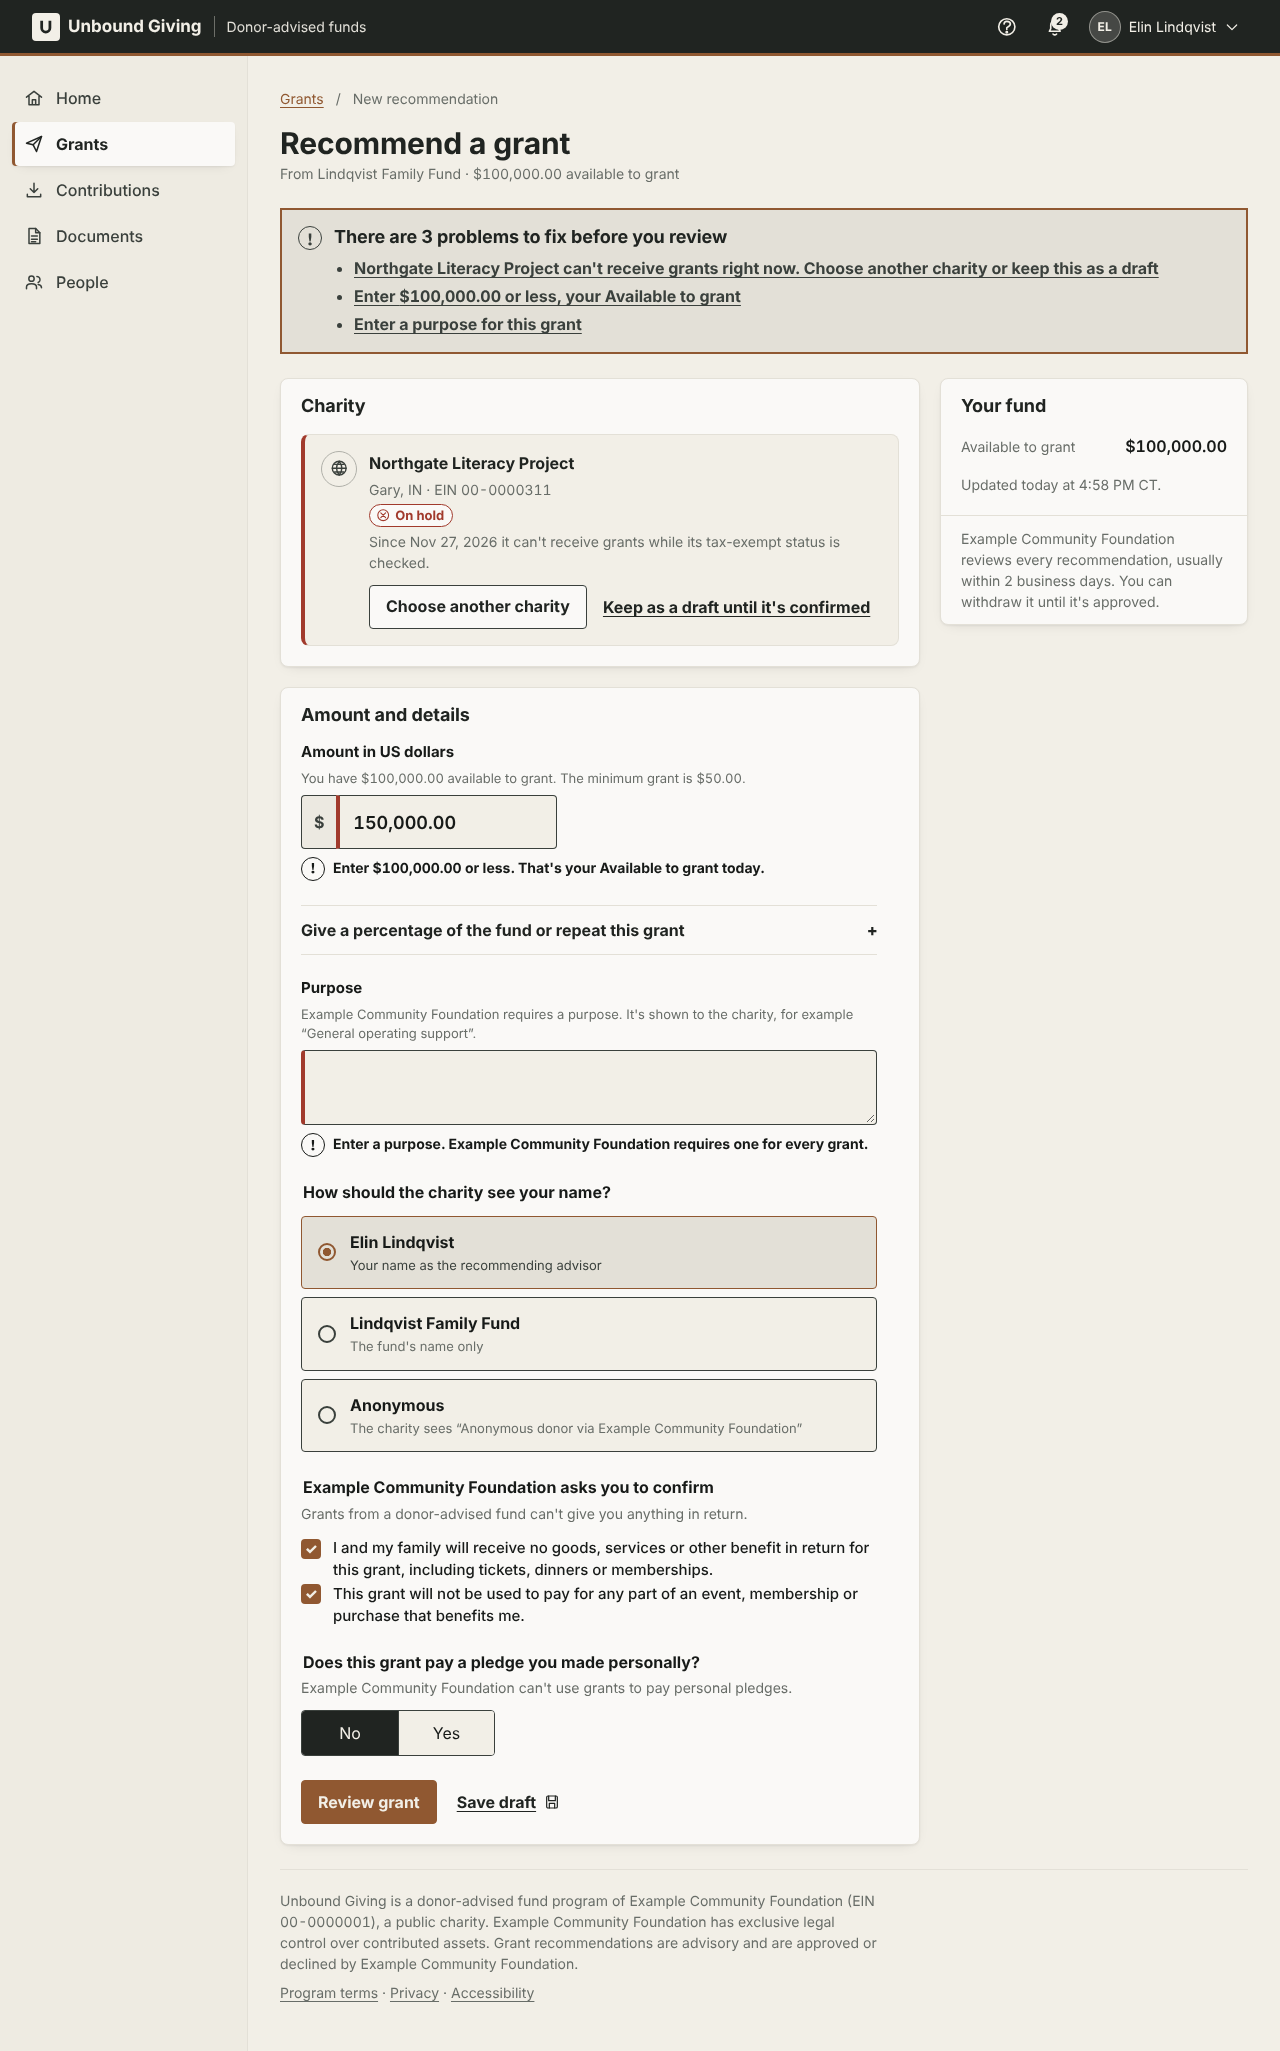
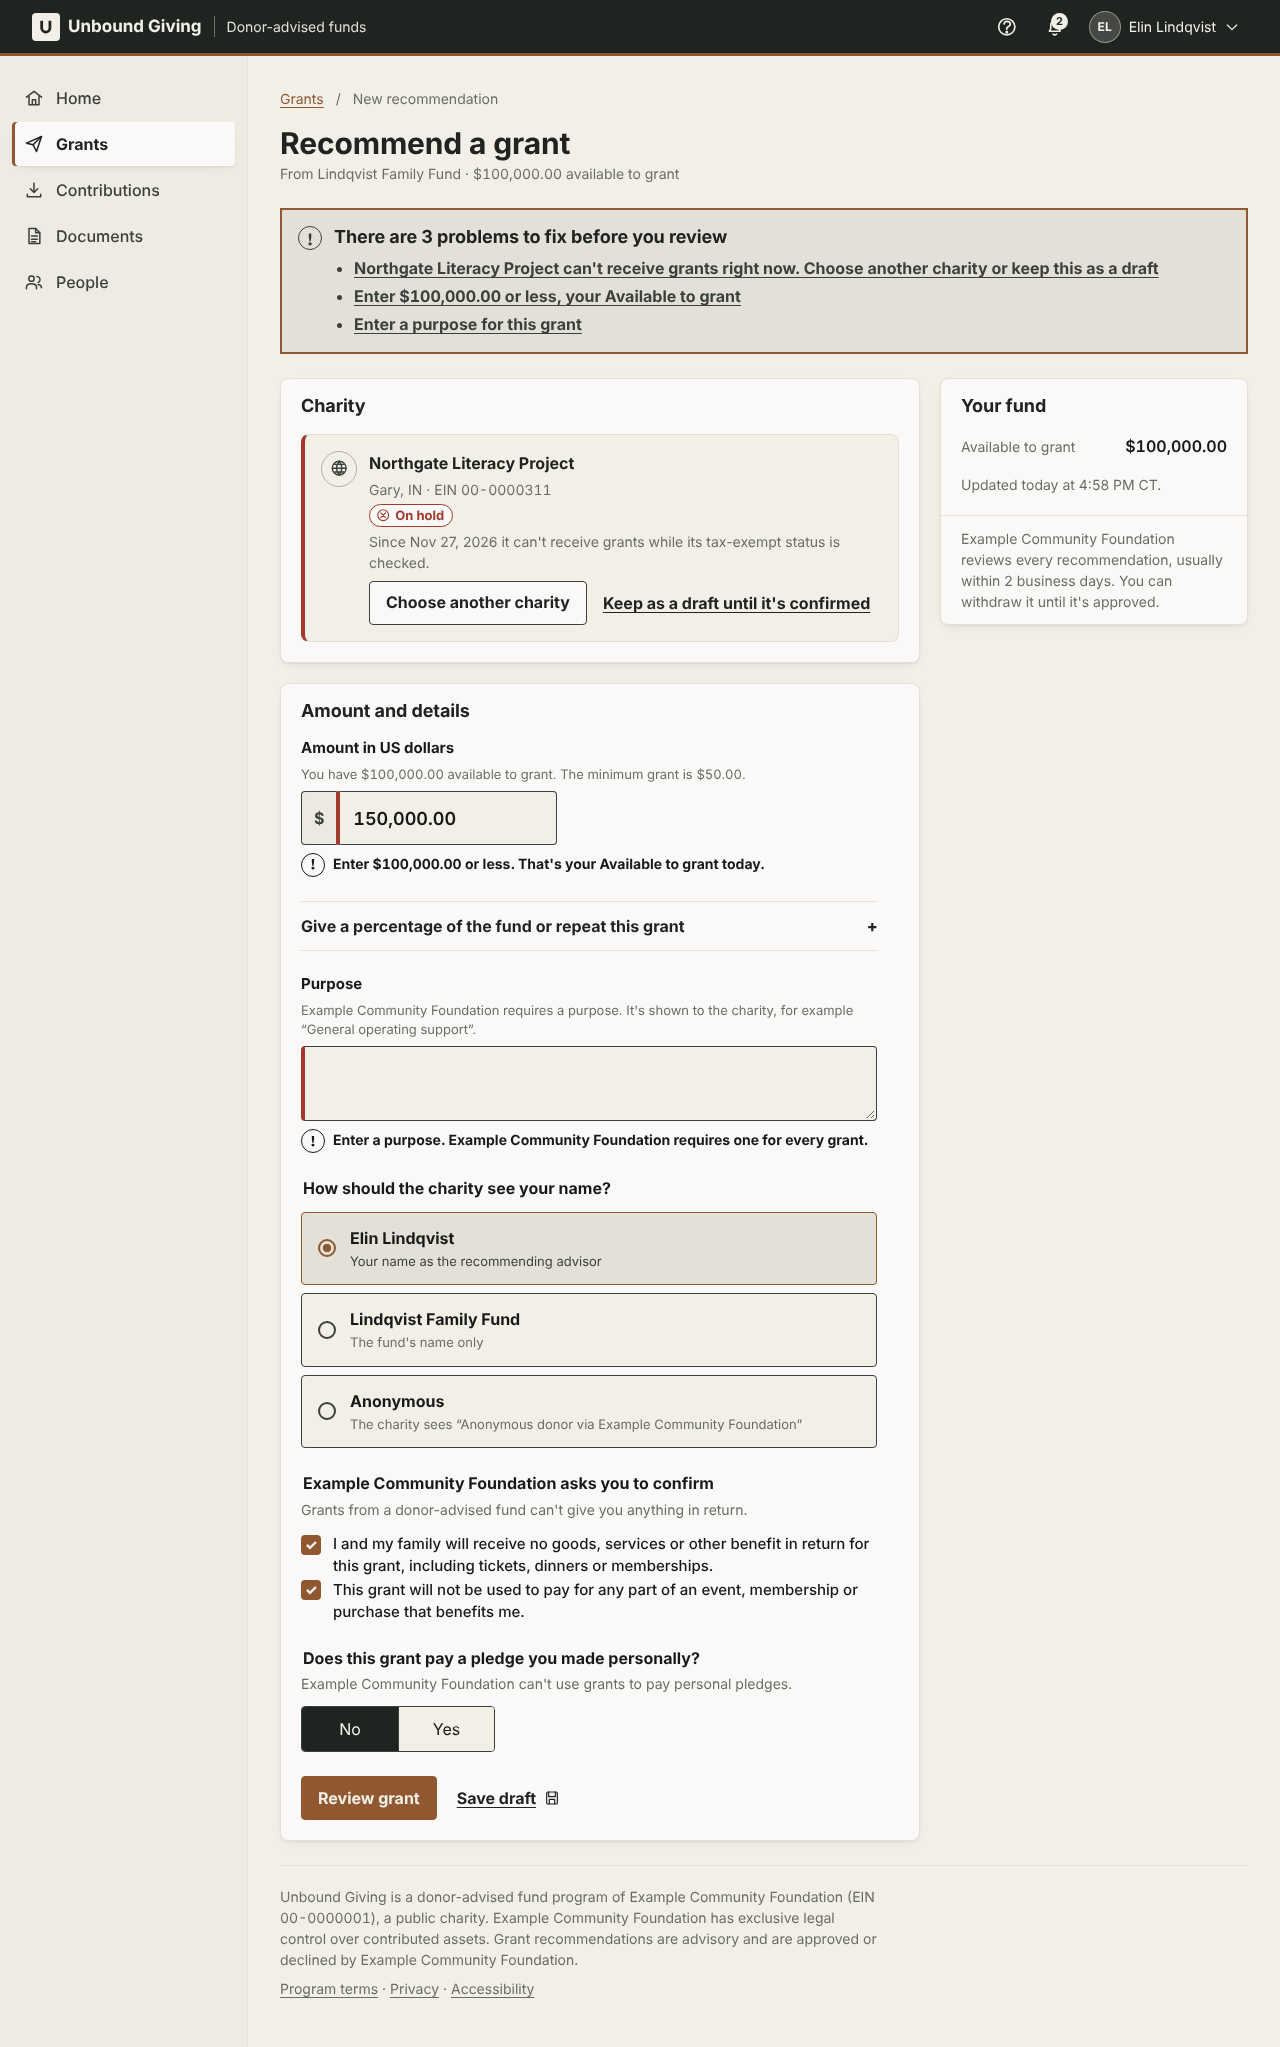
ui v2: checkpoint redesign work in progress
Claude-Session: https://claude.ai/code/session_01G1iECemaHbFWFdNkc8YYLh

diff --git a/requirements/ui/designs/v2/screens/W-001-grant-status-widget/host-page.html b/requirements/ui/designs/v2/screens/W-001-grant-status-widget/host-page.html
@@ -14,7 +14,7 @@ a{color:var(--h-accent)}
 .h-bar strong{font-size:1.2rem;letter-spacing:.02em}
 .h-bar nav ul{display:flex;flex-wrap:wrap;gap:4px 16px;margin:0;padding:0;list-style:none}
 .h-bar nav a{color:#fff;display:inline-block;padding:6px 0;font-family:system-ui,sans-serif;font-size:.9375rem}
-.h-main{max-width:1100px;margin:0 auto;padding:24px clamp(16px,4vw,48px) 48px;display:grid;gap:24px}
+.h-main{max-width:1180px;margin:0 auto;padding:24px clamp(16px,4vw,48px) 48px;display:grid;gap:24px}
 h1{margin:0;font-size:clamp(1.6rem,1.3rem + 1vw,2.2rem);font-weight:400}
 h2{margin:0 0 8px;font-size:1.15rem;font-family:system-ui,sans-serif}
 .h-lead{margin:0;color:var(--h-muted);font-family:system-ui,sans-serif;max-width:60ch}
@@ -24,7 +24,10 @@ h2{margin:0 0 8px;font-size:1.15rem;font-family:system-ui,sans-serif}
 .h-slot p{margin:0 0 12px;font-family:system-ui,sans-serif;font-size:.875rem;color:var(--h-muted)}
 .h-slot iframe{display:block;border:0;width:100%;max-width:100%}
 .h-slot--narrow iframe{width:360px}
-.h-slot--wide iframe{width:600px}
+.h-slot--wide iframe{width:600px;height:416px}
+.h-slot--narrow iframe{height:464px}
+/* No resize messages in this prototype: the host reserves enough height per slot width. */
+@media (max-width:479px){.h-slot iframe{height:560px!important}}
 .h-foot{font-family:system-ui,sans-serif;font-size:.8125rem;color:var(--h-muted);border-top:1px solid var(--h-line);padding-top:16px}
 </style>
 </head>
@@ -33,8 +36,8 @@ h2{margin:0 0 8px;font-size:1.15rem;font-family:system-ui,sans-serif}
 <main class="h-main" id="main">
 <div><h1>Your charitable giving</h1><p class="h-lead">Your donor-advised fund is held by your giving sponsor. The cards below come straight from the sponsor and update on their own.</p></div>
 <div class="h-grid">
-<section class="h-slot h-slot--wide" aria-labelledby="wide-t"><h2 id="wide-t">Latest grant</h2><p>Wide slot, 600 px.</p><iframe src="widget.html" title="Grant status from Unbound Giving (wide)" height="392" tabindex="-1"></iframe></section>
-<section class="h-slot h-slot--narrow" aria-labelledby="narrow-t"><h2 id="narrow-t">Grant status</h2><p>Sidebar slot, 360 px.</p><iframe src="widget.html" title="Grant status from Unbound Giving (sidebar)" height="452" tabindex="-1"></iframe></section>
+<section class="h-slot h-slot--wide" aria-labelledby="wide-t"><h2 id="wide-t">Latest grant</h2><p>Wide slot, 600 px.</p><iframe src="widget.html" title="Grant status from Unbound Giving (wide)" tabindex="-1"></iframe></section>
+<section class="h-slot h-slot--narrow" aria-labelledby="narrow-t"><h2 id="narrow-t">Grant status</h2><p>Sidebar slot, 360 px.</p><iframe src="widget.html" title="Grant status from Unbound Giving (sidebar)" tabindex="-1"></iframe></section>
 </div>
 <p class="h-foot">Fairway Wealth Partners does not hold or control your donor-advised fund. Grant information is provided read-only by your sponsor.</p>
 </main>

diff --git a/requirements/ui/designs/v2/proposed/ops-charity-widget.css b/requirements/ui/designs/v2/proposed/ops-charity-widget.css
@@ -278,7 +278,7 @@
   .unb-widget .unb-x-wcard__name { white-space: nowrap; }
   .unb-widget .unb-x-wcard__brand span:last-child { margin-inline-start: auto; font-weight: 500; font-size: var(--unb-type-micro); white-space: nowrap; }
   /* Inside a short host iframe the card fills the frame so the disclosure sits at the bottom edge. */
-  @media (max-height: 34rem) { .unb-widget .unb-x-wcard { min-block-size: calc(100vh - 2 * var(--forma-space-2)); box-sizing: border-box; grid-template-rows: auto 1fr auto; } }
+  @media (max-height: 36rem) { .unb-widget .unb-x-wcard { min-block-size: calc(100vh - 2 * var(--forma-space-2)); box-sizing: border-box; grid-template-rows: auto 1fr auto; } }
   .unb-widget .unb-x-wcard__body { display: grid; gap: var(--forma-space-3); padding: 0 var(--forma-space-4); }
   .unb-widget h1 { margin: 0; font-size: var(--unb-type-section); line-height: 1.3; font-weight: 650; color: var(--forma-color-text-heading); max-inline-size: none; font-family: var(--forma-type-family-body); letter-spacing: 0; }
   .unb-widget p { margin: 0; }
